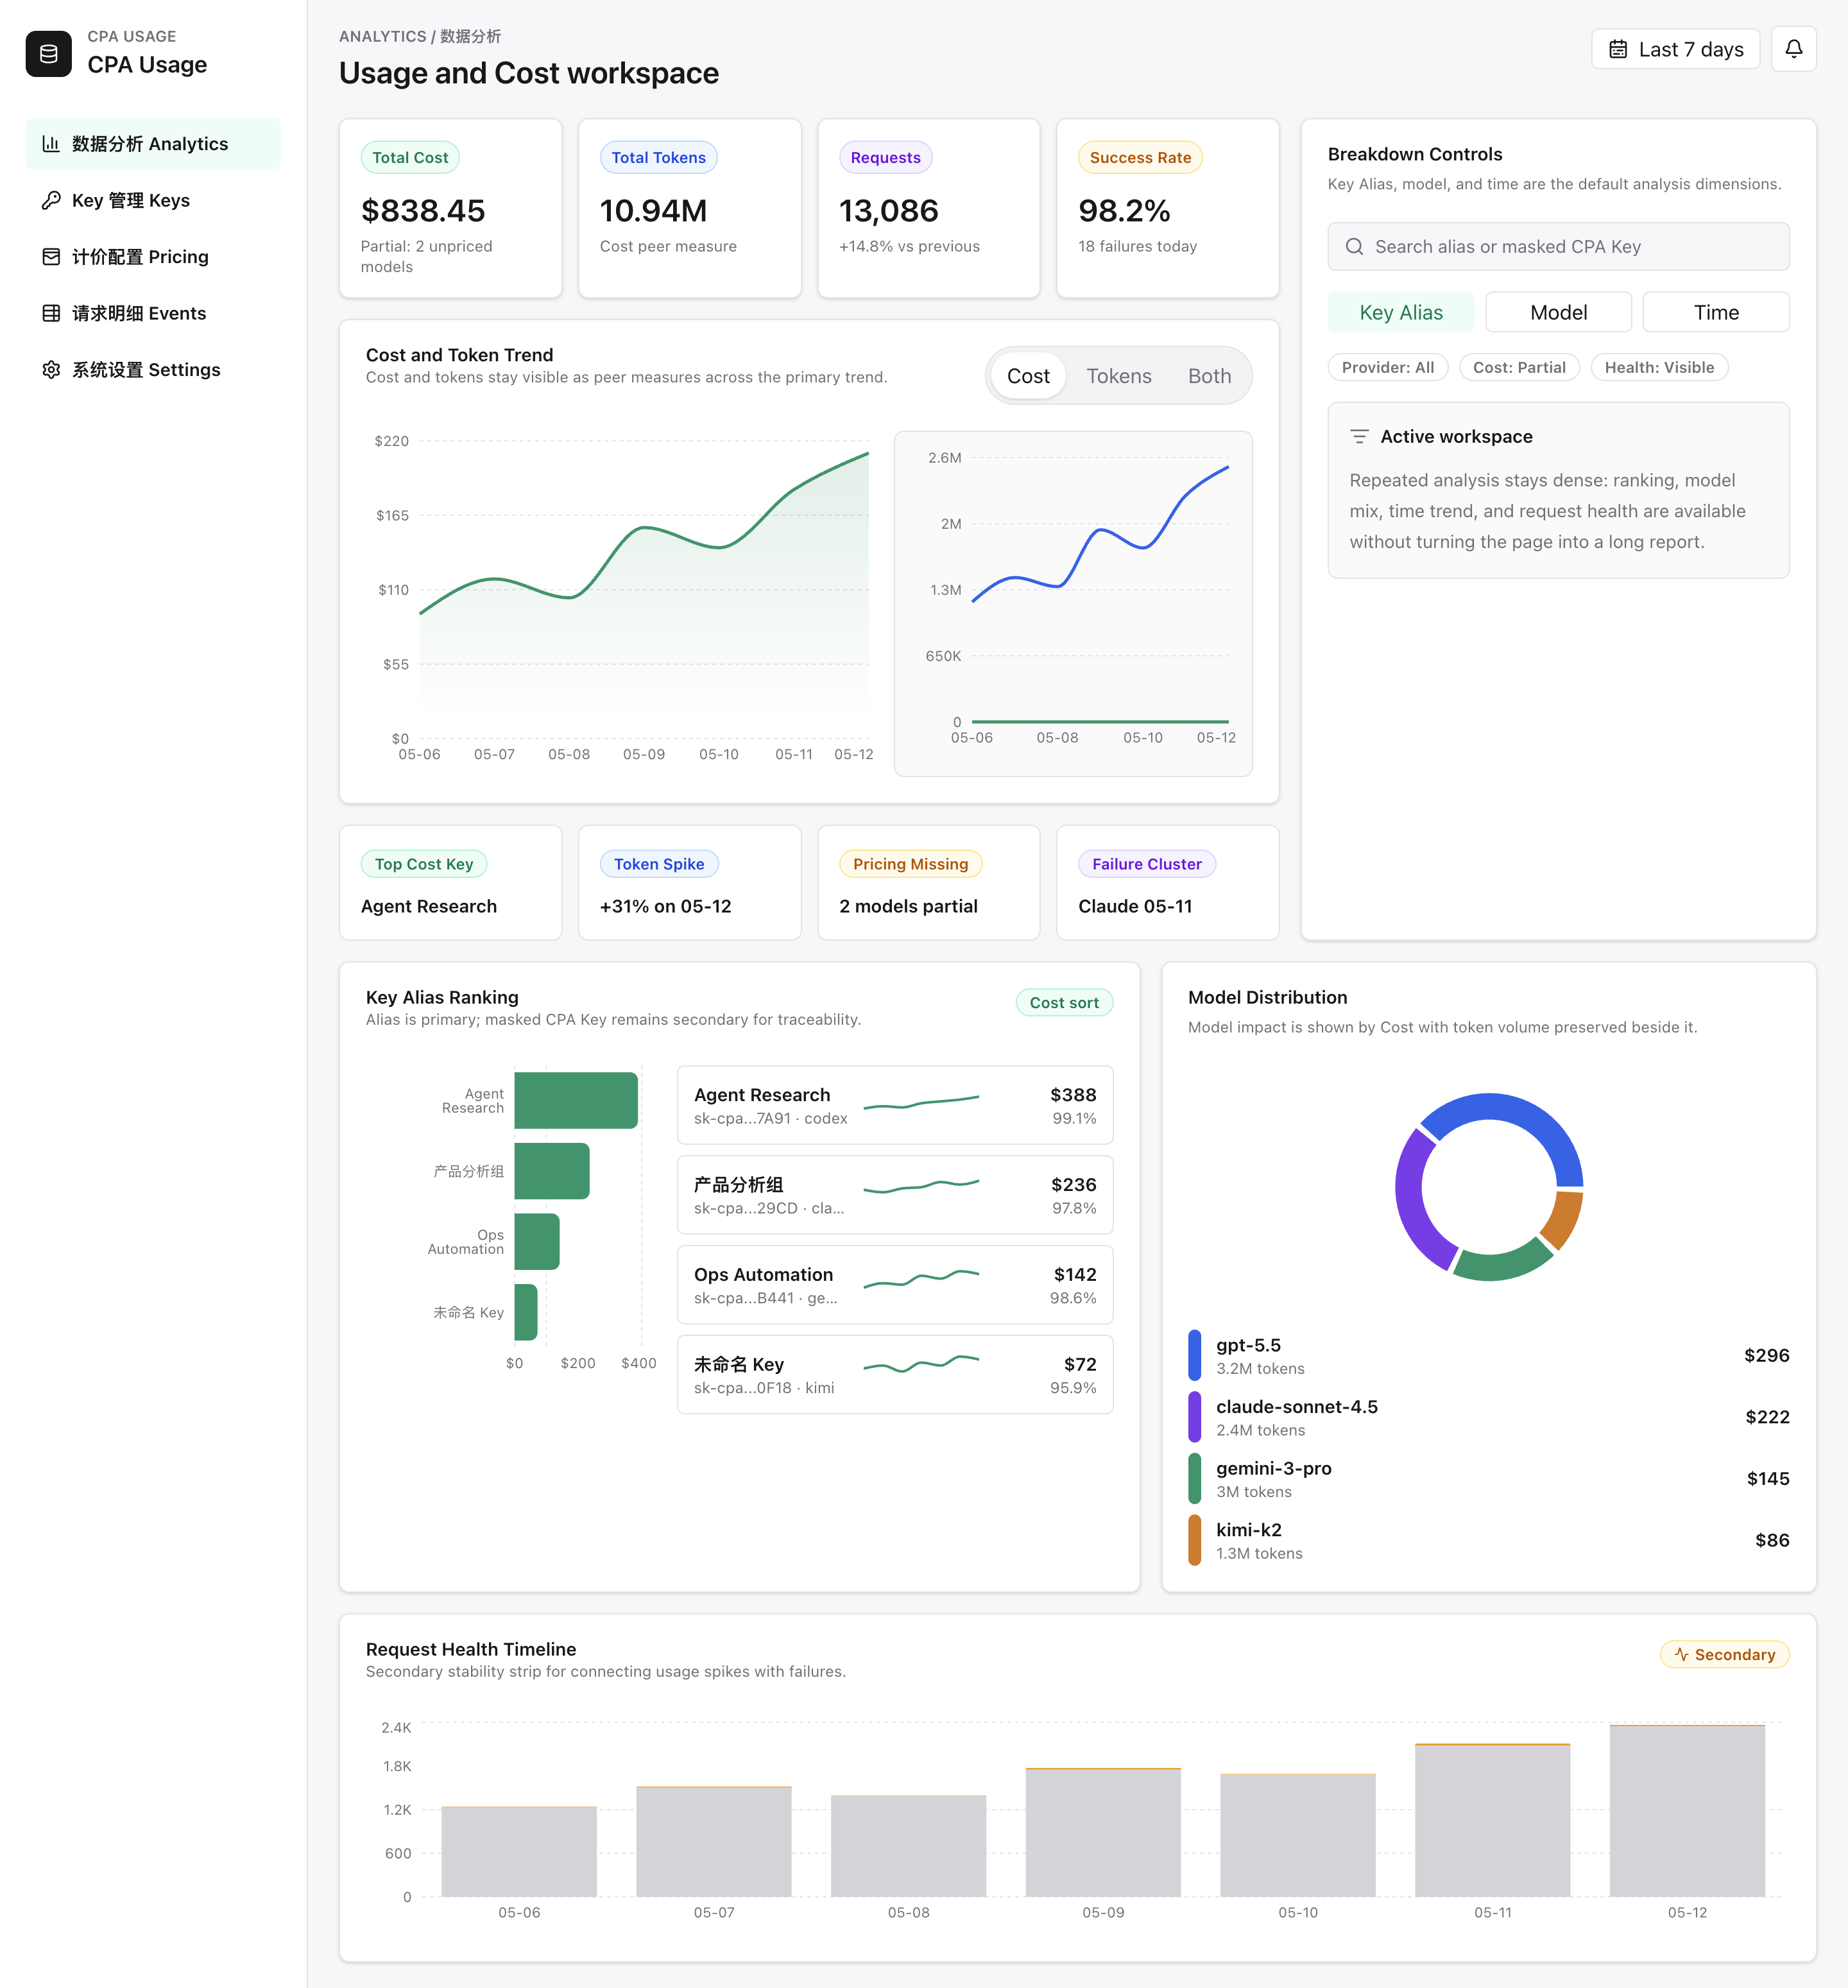
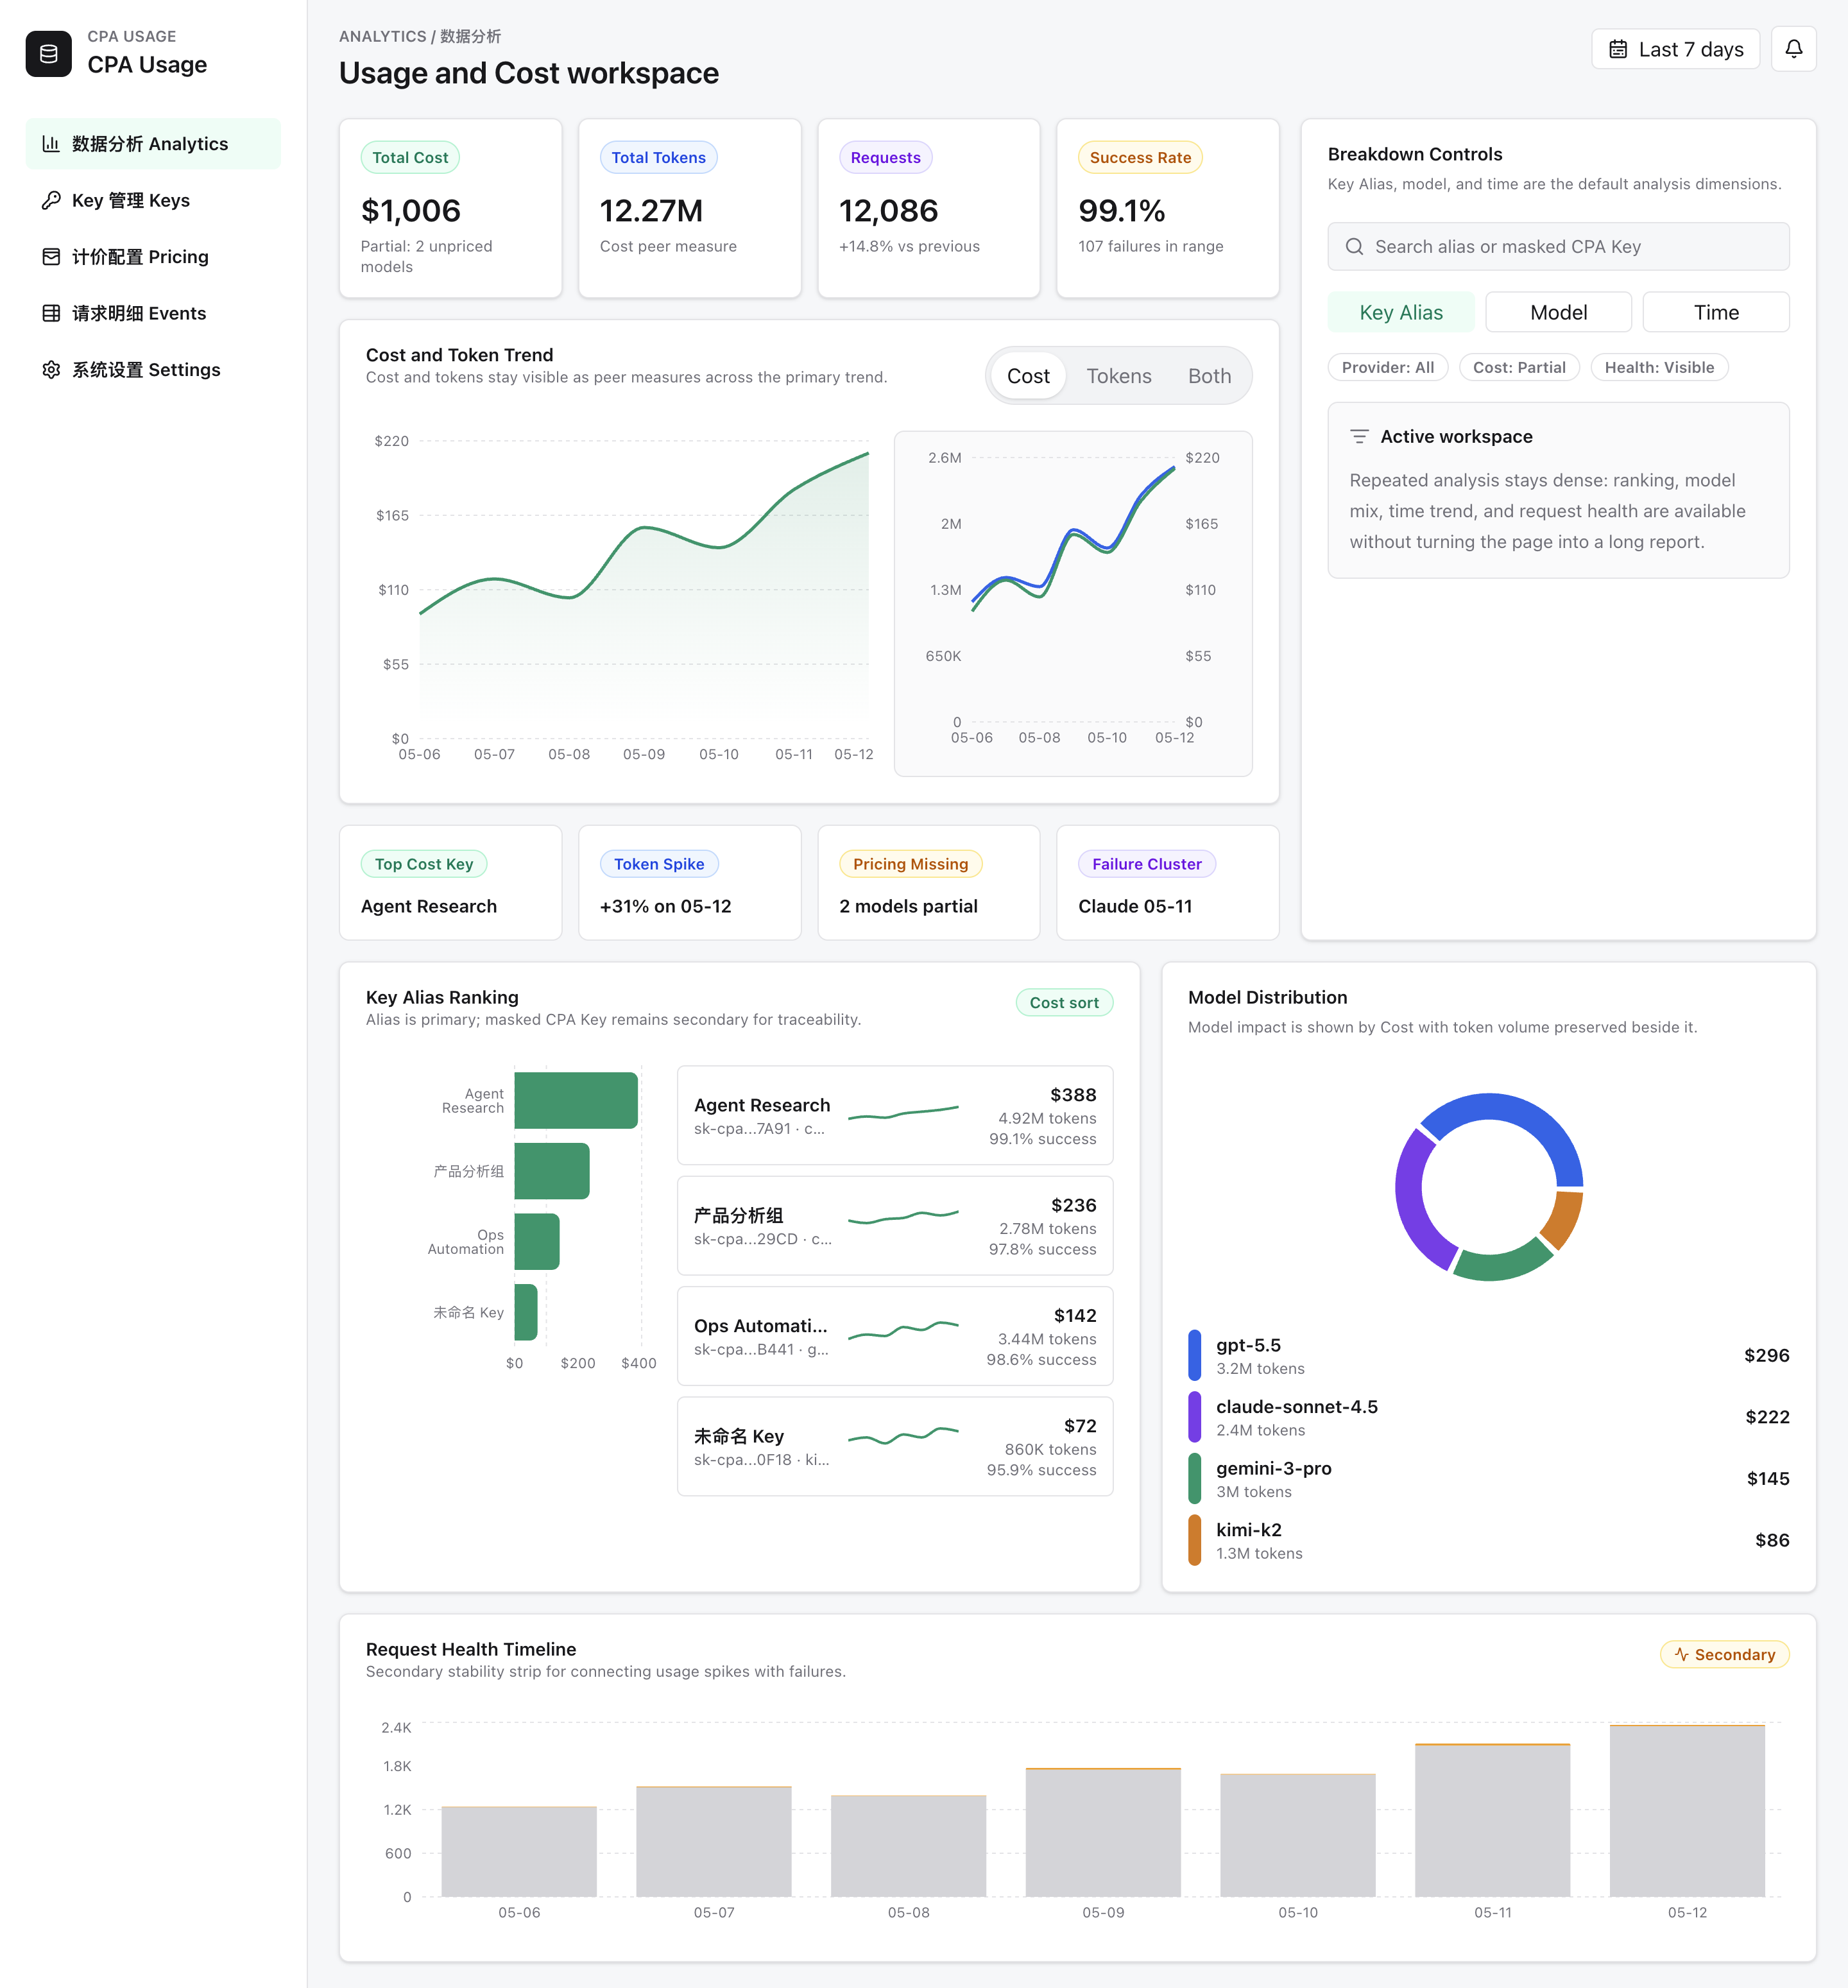
fix: align analytics prototype measures (#3)

diff --git a/web/src/App.tsx b/web/src/App.tsx
@@ -30,11 +30,29 @@ const navItems = [
   { label: '系统设置 Settings', href: '/settings', icon: Settings },
 ]
 
-const totals = {
-  cost: '$838.45',
-  tokens: '10.94M',
-  requests: '13,086',
-  successRate: '98.2%',
+function formatCompact(value: number, maximumFractionDigits = 1) {
+  return Intl.NumberFormat('en', { notation: 'compact', maximumFractionDigits }).format(value)
+}
+
+function formatCurrency(value: number) {
+  return `$${value.toLocaleString('en', { maximumFractionDigits: 0 })}`
+}
+
+const totals = trendData.reduce(
+  (result, point) => ({
+    cost: result.cost + point.cost,
+    tokens: result.tokens + point.tokens,
+    requests: result.requests + point.requests,
+    failures: result.failures + point.failures,
+  }),
+  { cost: 0, tokens: 0, requests: 0, failures: 0 },
+)
+
+const kpis = {
+  cost: formatCurrency(totals.cost),
+  tokens: formatCompact(totals.tokens, 2),
+  requests: totals.requests.toLocaleString('en'),
+  successRate: `${(((totals.requests - totals.failures) / totals.requests) * 100).toFixed(1)}%`,
 }
 
 function appBasePath() {
@@ -105,10 +123,10 @@ function App() {
           <div className="mt-5 grid gap-4 xl:grid-cols-[minmax(0,1.55fr)_minmax(320px,0.85fr)]">
             <section className="grid gap-4">
               <div className="grid gap-3 md:grid-cols-4">
-                <MetricCard label="Total Cost" value={totals.cost} caption="Partial: 2 unpriced models" tone="green" />
-                <MetricCard label="Total Tokens" value={totals.tokens} caption="Cost peer measure" tone="blue" />
-                <MetricCard label="Requests" value={totals.requests} caption="+14.8% vs previous" tone="violet" />
-                <MetricCard label="Success Rate" value={totals.successRate} caption="18 failures today" tone="amber" />
+                <MetricCard label="Total Cost" value={kpis.cost} caption="Partial: 2 unpriced models" tone="green" />
+                <MetricCard label="Total Tokens" value={kpis.tokens} caption="Cost peer measure" tone="blue" />
+                <MetricCard label="Requests" value={kpis.requests} caption="+14.8% vs previous" tone="violet" />
+                <MetricCard label="Success Rate" value={kpis.successRate} caption={`${totals.failures} failures in range`} tone="amber" />
               </div>
 
               <Card>
@@ -196,7 +214,7 @@ function App() {
                   </div>
                   <div className="grid gap-2">
                     {aliasRows.map((row) => (
-                      <div className="grid grid-cols-[minmax(0,1fr)_90px_80px] items-center gap-3 rounded-md border border-border p-3" key={row.key}>
+                      <div className="grid grid-cols-[minmax(0,1fr)_86px_96px] items-center gap-3 rounded-md border border-border p-3" key={row.key}>
                         <div className="min-w-0">
                           <p className="truncate text-sm font-semibold">{row.alias}</p>
                           <p className="truncate text-xs text-muted-foreground">
@@ -208,7 +226,8 @@ function App() {
                         </div>
                         <div className="text-right">
                           <p className="text-sm font-semibold">${row.cost.toFixed(0)}</p>
-                          <p className="text-xs text-muted-foreground">{row.successRate}%</p>
+                          <p className="text-xs text-muted-foreground">{formatCompact(row.tokens, 2)} tokens</p>
+                          <p className="text-xs text-muted-foreground">{row.successRate}% success</p>
                         </div>
                       </div>
                     ))}

diff --git a/web/src/components/charts/index.tsx b/web/src/components/charts/index.tsx
@@ -60,18 +60,28 @@ export function TokenCostCompareChart({ data }: { data: TrendPoint[] }) {
         <CartesianGrid stroke={gridStroke} strokeDasharray="3 3" vertical={false} />
         <XAxis axisLine={false} dataKey="label" tick={axisStyle} tickLine={false} />
         <YAxis
+          yAxisId="tokens"
           axisLine={false}
           tick={axisStyle}
           tickFormatter={(value) => compactNumber(Number(value))}
           tickLine={false}
           width={48}
         />
+        <YAxis
+          yAxisId="cost"
+          axisLine={false}
+          orientation="right"
+          tick={axisStyle}
+          tickFormatter={formatCurrency}
+          tickLine={false}
+          width={42}
+        />
         <Tooltip
           contentStyle={{ borderColor: '#e4e4e7', borderRadius: 8, boxShadow: '0 8px 24px rgba(24,24,27,0.08)' }}
           formatter={(value, name) => [name === 'tokens' ? compactNumber(Number(value)) : `$${Number(value).toFixed(2)}`, name]}
         />
-        <Line dataKey="tokens" dot={false} stroke="#2563eb" strokeWidth={2.5} type="monotone" />
-        <Line dataKey="cost" dot={false} stroke="#059669" strokeWidth={2.5} type="monotone" />
+        <Line yAxisId="tokens" dataKey="tokens" dot={false} stroke="#2563eb" strokeWidth={2.5} type="monotone" />
+        <Line yAxisId="cost" dataKey="cost" dot={false} stroke="#059669" strokeWidth={2.5} type="monotone" />
       </LineChart>
     </ResponsiveContainer>
   )

diff --git a/web/src/App.test.tsx b/web/src/App.test.tsx
@@ -32,6 +32,9 @@ describe('App', () => {
     expect(screen.getByText('Request Health Timeline')).toBeInTheDocument()
     expect(screen.getAllByText('Agent Research')).toHaveLength(2)
     expect(screen.getByText('sk-cpa...7A91 · codex')).toBeInTheDocument()
+    expect(screen.getByText('$1,006')).toBeInTheDocument()
+    expect(screen.getByText('12.27M')).toBeInTheDocument()
+    expect(screen.getByText('4.92M tokens')).toBeInTheDocument()
   })
 
   it('prefixes navigation links with the configured application base path', () => {